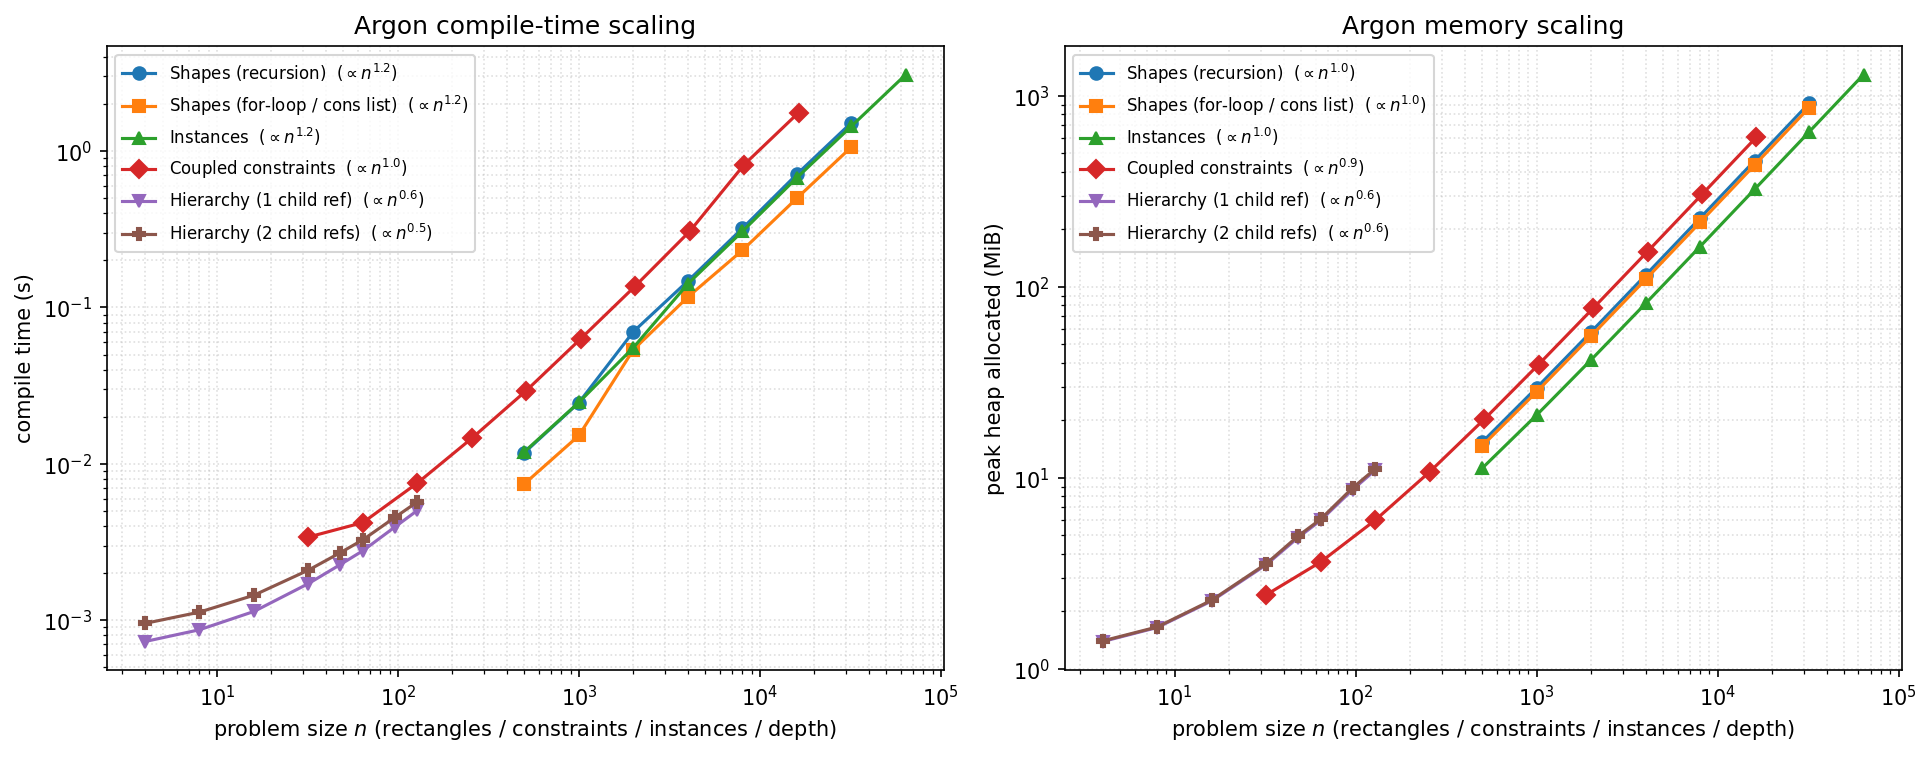
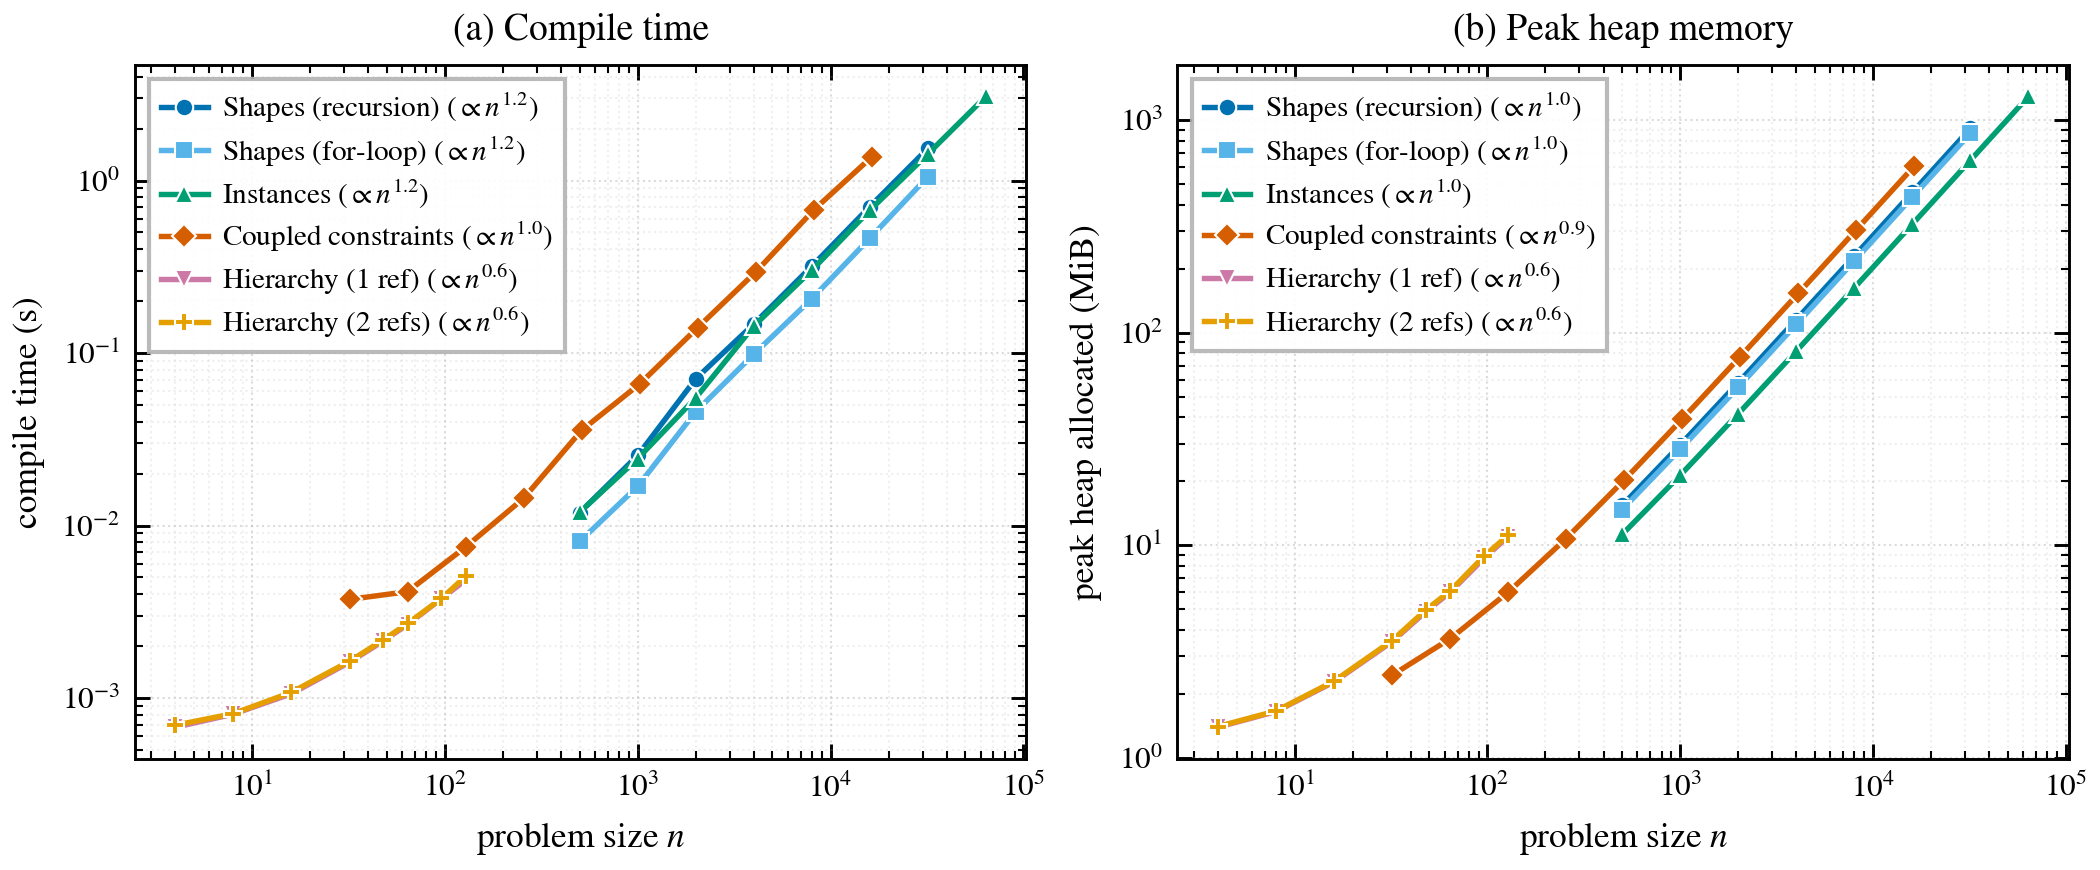
chore: update benches

diff --git a/bench/plot_scaling.py b/bench/plot_scaling.py
@@ -26,12 +26,57 @@ import sys
 # exponentially; on the current build every axis is sub-exponential.
 SERIES = [
     ("shapes", "Shapes (recursion)", "# rectangles", "poly"),
-    ("shapes_loop", "Shapes (for-loop / cons list)", "# rectangles", "poly"),
+    ("shapes_loop", "Shapes (for-loop)", "# rectangles", "poly"),
     ("instances", "Instances", "# instances", "poly"),
     ("constraints", "Coupled constraints", "# coupled rects", "poly"),
-    ("hierarchy_single_ref", "Hierarchy (1 child ref)", "depth", "poly"),
-    ("hierarchy_double_ref", "Hierarchy (2 child refs)", "depth", "poly"),
+    ("hierarchy_single_ref", "Hierarchy (1 ref)", "depth", "poly"),
+    ("hierarchy_double_ref", "Hierarchy (2 refs)", "depth", "poly"),
 ]
+
+# Okabe-Ito colorblind-safe palette (black and yellow dropped for line
+# contrast on white), ordered to match SERIES. The two "twin" pairs --
+# recursion/for-loop and 1-ref/2-ref -- get distinct hues so that their
+# near-coincidence on the plot reads as two curves landing on top of each
+# other rather than one. Markers are also distinct so the series remain
+# separable in grayscale print.
+PALETTE = ["#0072B2", "#56B4E9", "#009E73", "#D55E00", "#CC79A7", "#E69F00"]
+MARKERS = ["o", "s", "^", "D", "v", "P"]
+
+
+def apply_pub_style(matplotlib):
+    """ACM acmart (sigconf, camera-ready) publication style.
+
+    The critical setting is ``fonttype = 42``: it embeds text as subsetted
+    TrueType (Type 42) glyphs instead of matplotlib's default Type 3 fonts,
+    which ACM's TAPS pipeline (and IEEE PDF eXpress) reject. The serif face
+    (STIX -- a Times-metric font bundled with matplotlib, so no missing-font
+    fallback) matches the acmart body text. Sizes are chosen so that the
+    figure, dropped into a full-width ``figure*`` at the sigconf text width
+    (~7 in), renders its labels at roughly 7-9 pt without any rescaling.
+    """
+    matplotlib.rcParams.update({
+        "pdf.fonttype": 42,
+        "ps.fonttype": 42,
+        "font.family": "serif",
+        "font.serif": ["STIXGeneral", "Times New Roman", "DejaVu Serif"],
+        "mathtext.fontset": "stix",
+        "font.size": 8,
+        "axes.titlesize": 9,
+        "axes.labelsize": 8.5,
+        "xtick.labelsize": 7.5,
+        "ytick.labelsize": 7.5,
+        "legend.fontsize": 7.0,
+        "axes.linewidth": 0.7,
+        "lines.linewidth": 1.3,
+        "lines.markersize": 4.2,
+        "grid.linewidth": 0.5,
+        "xtick.major.width": 0.7,
+        "ytick.major.width": 0.7,
+        "xtick.minor.width": 0.5,
+        "ytick.minor.width": 0.5,
+        "savefig.dpi": 300,
+        "figure.dpi": 300,
+    })
 
 
 def load(path):
@@ -117,39 +162,49 @@ def main():
         import matplotlib
 
         matplotlib.use("Agg")
+        apply_pub_style(matplotlib)
         import matplotlib.pyplot as plt
     except ImportError:
         sys.exit("\nmatplotlib not installed; printed summary only. `pip install matplotlib` to draw.")
 
-    fig, (ax_t, ax_m) = plt.subplots(1, 2, figsize=(13, 5.2))
-    markers = ["o", "s", "^", "D", "v", "P"]
-    for (key, _, _, _), marker in zip(SERIES, markers):
+    # Full text width of an ACM acmart sigconf two-column figure* (~7 in).
+    fig, (ax_t, ax_m) = plt.subplots(1, 2, figsize=(7.0, 2.9), layout="constrained")
+    for (key, _, _, _), marker, color in zip(SERIES, MARKERS, PALETTE):
         if key not in data:
             continue
         label, unit, model, xs, ts, ms = data[key]
         t_suffix, _ = describe(model, xs, ts)
         m_suffix, _ = describe(model, xs, ms)
-        ax_t.plot(xs, ts, marker=marker, label=f"{label}  ({t_suffix})")
-        ax_m.plot(xs, [m / 2**20 for m in ms], marker=marker,
-                  label=f"{label}  ({m_suffix})")
+        style = dict(marker=marker, color=color,
+                     markeredgecolor="white", markeredgewidth=0.5)
+        ax_t.plot(xs, ts, label=f"{label} ({t_suffix})", **style)
+        ax_m.plot(xs, [m / 2**20 for m in ms], label=f"{label} ({m_suffix})", **style)
 
     for ax in (ax_t, ax_m):
         ax.set_xscale("log")
         ax.set_yscale("log")
-        ax.set_xlabel("problem size $n$ (rectangles / constraints / instances / depth)")
-        ax.grid(True, which="both", ls=":", alpha=0.4)
+        ax.set_xlabel("problem size $n$")
+        ax.grid(True, which="major", ls=":", alpha=0.45)
+        ax.grid(True, which="minor", ls=":", alpha=0.2)
+        ax.tick_params(which="both", direction="in", top=True, right=True)
 
     ax_t.set_ylabel("compile time (s)")
-    ax_t.set_title("Argon compile-time scaling")
+    ax_t.set_title("(a) Compile time")
     ax_m.set_ylabel("peak heap allocated (MiB)")
-    ax_m.set_title("Argon memory scaling")
-    ax_t.legend(fontsize=8, loc="upper left")
-    ax_m.legend(fontsize=8, loc="upper left")
-    fig.tight_layout()
+    ax_m.set_title("(b) Peak heap memory")
+    leg_kw = dict(loc="upper left", handlelength=1.6, labelspacing=0.3,
+                  borderpad=0.4, handletextpad=0.5, framealpha=0.9,
+                  edgecolor="0.7", fancybox=False)
+    ax_t.legend(**leg_kw)
+    ax_m.legend(**leg_kw)
 
+    # Saved at the figure's native size (constrained layout already reserves
+    # room for labels/legend), so the PDF MediaBox stays at the sigconf text
+    # width and the figure drops into the paper at width=\textwidth with no
+    # font-shrinking rescale.
     for ext in ("png", "pdf"):
         out = f"{args.out}.{ext}"
-        fig.savefig(out, dpi=150, bbox_inches="tight")
+        fig.savefig(out)
         print(f"wrote {out}")
 
 

diff --git a/bench/README.md b/bench/README.md
@@ -80,8 +80,13 @@ filter keeps the run from also executing the other (`#[ignore]`'d) tests. Each
 test writes `bench/results/<axis>.csv` with columns
 `size,time_s,peak_bytes,n_objects`. `plot_scaling.py` needs only the standard
 library to print the summary table; `matplotlib` is required to draw the figure.
-The fast `stress_*_smoke` tests (which just check that each example still
-compiles) run in the normal `cargo test` suite and are **not** ignored.
+The figure is drawn for the ACM `acmart` `sigconf` camera-ready format: it is
+sized to the full two-column text width (~7 in, i.e. a `figure*`), uses a
+colorblind-safe palette with distinct markers (legible in grayscale), and
+embeds its fonts as Type 42 — never Type 3, which ACM's TAPS pipeline rejects —
+so the PDF drops into the paper at `width=\textwidth` with no font-shrinking
+rescale. The fast `stress_*_smoke` tests (which just check that each example
+still compiles) run in the normal `cargo test` suite and are **not** ignored.
 
 ### Configuring the sweeps
 
@@ -128,12 +133,12 @@ parameter; "peak" is peak heap allocated during compilation.
 
 | Axis | largest `n` | time @ largest | peak mem @ largest | empirical scaling |
 | ---- | ----------- | -------------- | ------------------ | ----------------- |
-| Shapes (recursion)           | 32 000 rects   | 1.52 s  | 0.89 GiB | **~linear** (time `∝ n^1.2`, mem `∝ n^1.0`) |
+| Shapes (recursion)           | 32 000 rects   | 1.54 s  | 0.89 GiB | **~linear** (time `∝ n^1.2`, mem `∝ n^1.0`) |
 | Instances                    | 64 000 insts   | 3.08 s  | 1.26 GiB | **~linear** (time `∝ n^1.2`, mem `∝ n^1.0`) |
 | Hierarchy, 1 child ref       | depth 128      | 0.005 s | 11 MiB   | **linear** in depth |
-| Coupled constraints          | 16 384 rects   | 1.76 s  | 0.59 GiB | **~linear** (time `∝ n^1.04`, mem `∝ n^0.90`) |
+| Coupled constraints          | 16 384 rects   | 1.37 s  | 0.59 GiB | **~linear** (time `∝ n^1.0`, mem `∝ n^0.90`) |
 | Shapes (`for`-loop)          | 32 000 rects   | 1.06 s  | 0.85 GiB | **~linear** (time `∝ n^1.2`, mem `∝ n^1.0`) |
-| Hierarchy, 2 child refs      | depth 128      | 0.006 s | 11 MiB   | **linear** in depth (was exponential before the shared-type fix) |
+| Hierarchy, 2 child refs      | depth 128      | 0.005 s | 11 MiB   | **linear** in depth (was exponential before the shared-type fix) |
 
 ### Interpretation
 
@@ -157,8 +162,8 @@ parameter; "peak" is peak heap allocated during compilation.
   the dense SVD never runs. The general dense solver is retained only as a
   fallback for an *irreducible* coupled core (a block with no ≤2-variable
   pivot). This axis used to be **super-cubic** — `~22 s` at `n=1024`, steepening
-  toward the `O(n^3)` of dense factorization — and is now `~n^1.04` in time
-  (`1.76 s` at `n=16384`, 16× larger, in less memory than the old `n=1024`
+  toward the `O(n^3)` of dense factorization — and is now `~n^1.0` in time
+  (`1.37 s` at `n=16384`, 16× larger, in less memory than the old `n=1024`
   dense matrix used). The "general linear constraint solving (slow)" caveat in
   the top-level README now bites only for genuinely dense coupled blocks, not
   for the common sparse-but-coupled case.
@@ -170,8 +175,8 @@ parameter; "peak" is peak heap allocated during compilation.
   tree: whether a cell references its child **once** (`let i = inst(child());`)
   or **twice** (the `let c = child(); let i = inst(c);` idiom from the tutorial),
   `h{k}` holds shared pointers to the single type of `h{k-1}`, and both variants
-  cost the same — linear in depth (≈11 MiB / 6 ms at depth 128, the two series
-  within ~15% of each other). Before this fix the type was deep-copied per
+  cost the same — linear in depth (≈11 MiB / 5 ms at depth 128, the two series
+  within ~5% of each other). Before this fix the type was deep-copied per
   reference, so the single-ref chain was quadratic (`~depth^1.4`) and the
   double-ref chain **doubled with every level** (`×1.9` measured), exhausting
   memory beyond ~depth 20 (depth 18 alone took ~3.6 GiB / 11.5 s). The remaining
@@ -187,7 +192,7 @@ parameter; "peak" is peak heap allocated during compilation.
   persistent vector and lowering `range` to a native builtin made `cons`
   O(log n) and `range` O(n); the two series now coincide, both linear in time
   and memory out to 32 000 rectangles (`shapes_loop`: 1.06 s / 0.85 GiB;
-  `shapes`: 1.52 s / 0.89 GiB). The idiomatic `for i in std::range(n)` loop is
+  `shapes`: 1.54 s / 0.89 GiB). The idiomatic `for i in std::range(n)` loop is
   no longer a scaling hazard. The gap between the two series is now a small
   constant — `shapes_loop` is even marginally faster, as the native `range`
   avoids the per-element recursion overhead of `emit_shapes`.